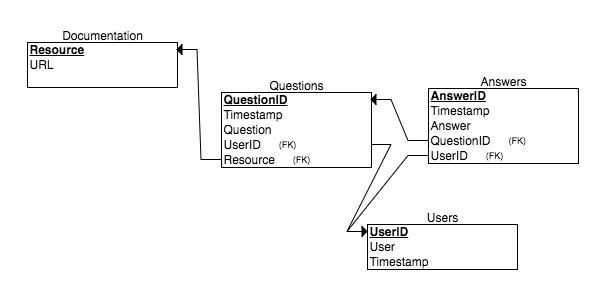
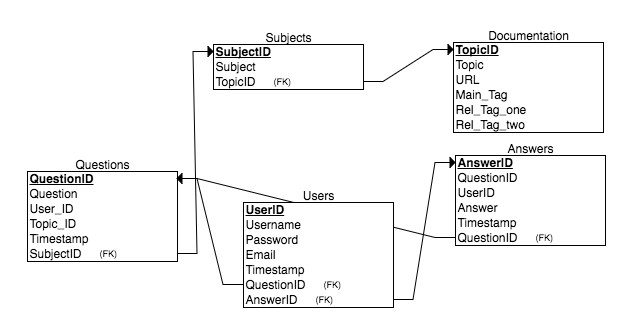
updates to Readme

Changed region(s): [[0.0298, 0.0915, 0.9834, 0.9458], [0.6556, 0.1525, 0.6854, 0.1831], [0.6258, 0.1831, 0.6556, 0.2136]]

diff --git a/README.md b/README.md
@@ -2,24 +2,174 @@
 
 ### Links
 
-[Deployed API]()
+[Deployed API](https://project-overflow-db.herokuapp.com/)
 
-[Database Repository]()
+[Database Repository](https://github.com/Dashy10/Project-Overflow-DB)
 
 [Link to Deployed Application]()
 
-### Overview
+## Overview
 
+*  Project Overflow is the end all be all site for all questions, answers, and resources related to getting started and learning web development. The founders completed General Assembly's Web Development Immersive course with future students in mind, dealing with all hurdles and obstacles that are to be expected from young devs alike. Be an active or passive contributor as much as you wish. Enjoy!
 
 
 
 ## Wireframes
 
+[Wireframes can be viewed on Trello](https://trello.com/c/pZPILXHR/3-wireframes)
+## Pseudocode
+**Home page** 
+
+	 Build out nav bar to connect to all main pages 
+	 	-About when clicked: Brings user to a more detailed page elaborating how to best use the site
+	 	-Contact when clicked: Directs user to information page on the team of developers who built the site
+	 	-Documentation when clicked: Directs the user to page of all relevant resources including links to the 3rd party pages
+	 	-Searchbar when submitted: input entry will be caputured as Question and return relevant questions and answers regarding the topic
+	 	-Account when clicked: Dropdown displayed to select the Profile option which will redirect user to the account page
+	 	-Login when clicked: Will direct student to the login page to enter username and password credentials
+	 
+	 Components: About, Contact, Documentation, Searchbar, Account, Login, Title
+	 	-Reusuable Components: Header + Footer
+	 	
+	 Add text Component for main page with How to instructions of site
+	 
+	 User enters a search query
+	 	-Capture query string and store as Question data
+	 		-Route to Questions page
+	 			-Return connected answers to questions
+
+**About page** 
+
+	Consistent header and footer to connect to all main pages 
+	
+	Split the page into two divs: 
+		-person A, looking for an answer 
+		-person B, finding a question to answer
+	
+	Details for both on how to ask and answer the questions as well as using the site properly
+		
+
+**Contact page** 
+
+	Consistent header and footer to connect to all main pages 
+	
+	Split the page into three divs holding each member of the team
+	Each section will include an image of team member, information and links to connect with 
+
+**Documentation page** 
+
+	Consistent header and footer to connect to all main pages  
+	
+	Page will be sorted and broken up into different topics which will include all related links to that topic
+
+**Searchbar page** 
+
+	Consistent header and footer to connect to all main pages  
+	
+	Upon entering a search query, user will be redirected to a page containing all related questions to that topic (i.e search for 'Express' and frequently asked questions are populated
+	
+	Questions will be sorted by date, displaying the most recent
+	
+	Each question will be a link and can be clicked on to direct you to the page holding that questions along with every answer provided.
+	
+	Add a wrapper to this page so user can continually scroll down
+	
+	Comment box on the side promting the user again to ask a question if the results are not finding the answer
+
+**Account page** 
+
+	Consistent header and footer to connect to all main pages  
+	
+	Avatar of the user will be centered on the page
+	
+	Return all data related to the user:
+		-username
+		-date joined
+		-email
+		-password
+		-questions asked
+		-questions answered
+
+**Login page** 
+
+	Consistent header and footer to connect to all main pages 
+	
+	Text input type for email input
+	
+	Text input type for password input
+	
+	checkbox for remember me email input && password input
+	
+	Submit button that uses route to go to main page
+	
+	Signup button that opens modal;
+	
+	Modal will include:
+	 -Text input type for email input
+	 -Text input type for password input
+	 - Text input type for username
+	 - Submit button that will creat an account and move the user to the home page
+	
+	
+
+
+## Project Timetable
+
+| Component| Estimated Time |  Invested Time  | % Completed  | Actual Time |
+|---|---|---|---|---|
+| Psuedocode | 2.5 hours  |  1 hour  | 100%  | 1 hour  |
+| Database Setup  | 3 hours  |  1 hour  | 100%  | 1 hour  |
+| Express Application  | 1 hour  | 30 minutes  |  | n/a  |
+| React Application non-functional | 3.5 hours  |   |   |   |
+|  React w/ functionality | 15 hours  |   |   |   |
+|  Design layout | 5 hours  |   |   |   |
+| Post MVP implementations  | 10 hours  |    |   | n/a  |
+
+## Workflow
+ *Team* 
+ 
+ * Header 
+ * Footer
+ * SQL
+ * React
+ * Heroku app
+ * Express application
+ * Title
+
+ *Kyle*
+
+* About
+* Documentation
+ 
+ *Ed*  
+ 
+* Contact
+* Searchbar
+ 
+ *Dash* 
+ 
+* Login
+* Account
+	 
+	 
 ## User Stories
+
+* As a user, I want to be able to:
+	*  search for all resources pertaining to the target subject
+	*  see all the questions asked based on the subject searched
+	*  ask questions based on the subject I searched
+	*  see when a question was asked to show the relevance
+	*  see answers based on the exact question that was asked
+	*  see when an answer was given to show relevance
+	*  see the documentation on how to ask and answer questions
+	*  see when I have joined, what questions I have asked and what answers I have 	responded with
+	* see the team that created the application and be able to connect with them
+	* have easy access to log in and out of my account...or not at all
+	 
 
 ## Database Structure
 ![Database ERD](assets/project-overflow-database.png)
-<
+
 
 ## Technologies
 - HTML
@@ -28,15 +178,21 @@
 - React.js
 - Express.js
 - Node.js
+- Bootstrap
 - postgreSQL
 - Postico
 - Postman
 - Heroku
 - NOW
 
-## Installation Instructions
 
 ## Code Example
+
+```
+function yeahright() {
+	console.log('nice try')
+}
+```
 
 ## Contributing
 
@@ -46,7 +202,6 @@ Instructors: Patrick Andre, Joe Keohan, Jon Zachary
 
 TA's: Matt Kersner, Dominic Farquharson & Daniel Pease.
 
-## Minimum Viable Product
 
 ## Major Hurdles
 
